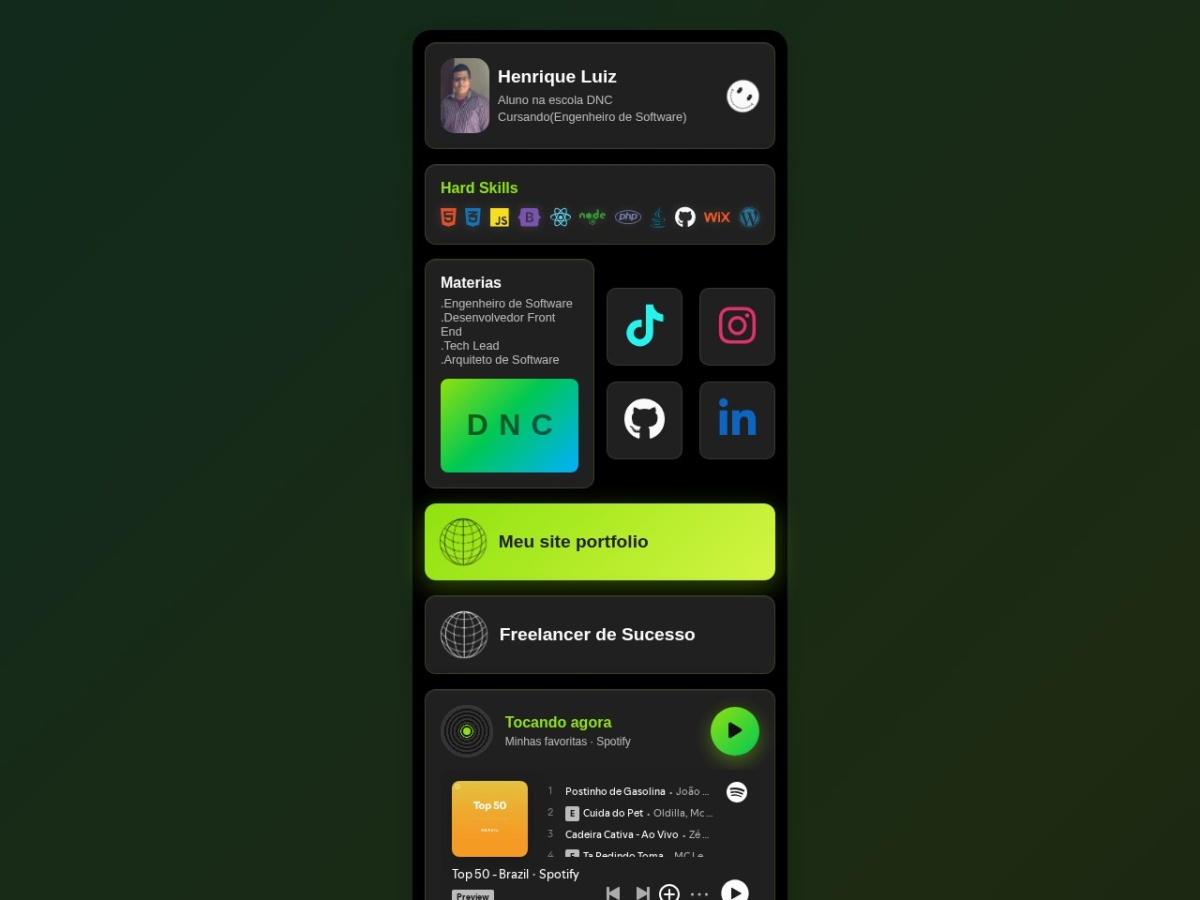
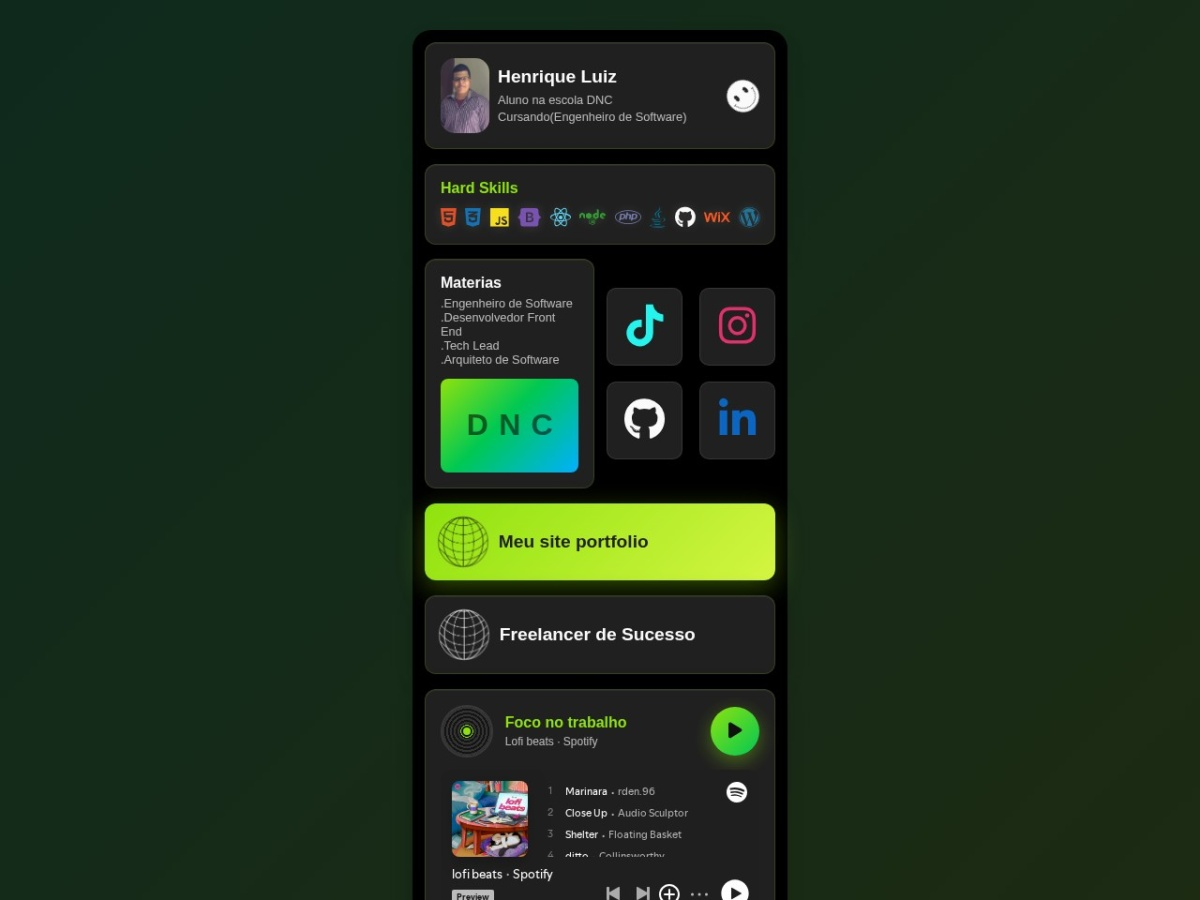
Renomeia card para portfolio-master com player de foco atualizado

diff --git a/index.html b/index.html
@@ -179,7 +179,7 @@
                 <a href="https://assembleia-de-deus-santo-bl17zlt.gamma.site/" target="_blank"><img src="img/1_Assembleia-de-Deus-Ministerio-de-Santos.png" alt="Assembleia de Deus"><span>Assembleia de Deus <em>Gamma</em></span></a>
                 <a href="https://gamma.app/docs/vyqycnxa6ht379t" target="_blank"><img src="img/1_Construindo-um-Portfolio-Profissional-com-React.png" alt="Portfólio React"><span>Portfólio React <em>Gamma</em></span></a>
                 <a href="https://cha-de-casa-nova-xf6taja.gamma.site/chadecasanovalauaneeduardo" target="_blank"><img src="img/Cha-de-Casa-Nova-Lauane-and-Eduardo-Estao-Prontos.png" alt="Chá de Casa Nova"><span>Chá de Casa Nova <em>Gamma</em></span></a>
-                <a href="https://ricklima991.github.io/Aluno-na-escola-DNC-main/" target="_blank"><img src="img/linkbio-henrique.png" alt="LinkBio Henrique Luiz"><span>LinkBio · Música <em>HTML · CSS · JS</em></span></a>
+                <a href="https://ricklima991.github.io/Aluno-na-escola-DNC-main/" target="_blank"><img src="img/linkbio-henrique.png" alt="portfolio-master"><span>portfolio-master <em>HTML · CSS · JS</em></span></a>
             </div>
         </section>
 

diff --git a/projetos.html b/projetos.html
@@ -188,9 +188,9 @@
                 </div>
             </article>
             <article class="pj-row" data-cat="site">
-                <div class="pj-img"><img src="img/linkbio-henrique.png" alt="LinkBio Henrique Luiz"><span class="pj-num">09</span></div>
+                <div class="pj-img"><img src="img/linkbio-henrique.png" alt="portfolio-master"><span class="pj-num">09</span></div>
                 <div class="pj-body">
-                    <h2>LinkBio Henrique Luiz</h2>
+                    <h2>portfolio-master</h2>
                     <p>Página de links pessoal com loading animado, carinha sorridente, CD girando e player Spotify das favoritas.</p>
                     <div class="pj-tags"><span>HTML</span><span>CSS</span><span>JavaScript</span><span>Spotify</span></div>
                     <div class="pj-actions">
